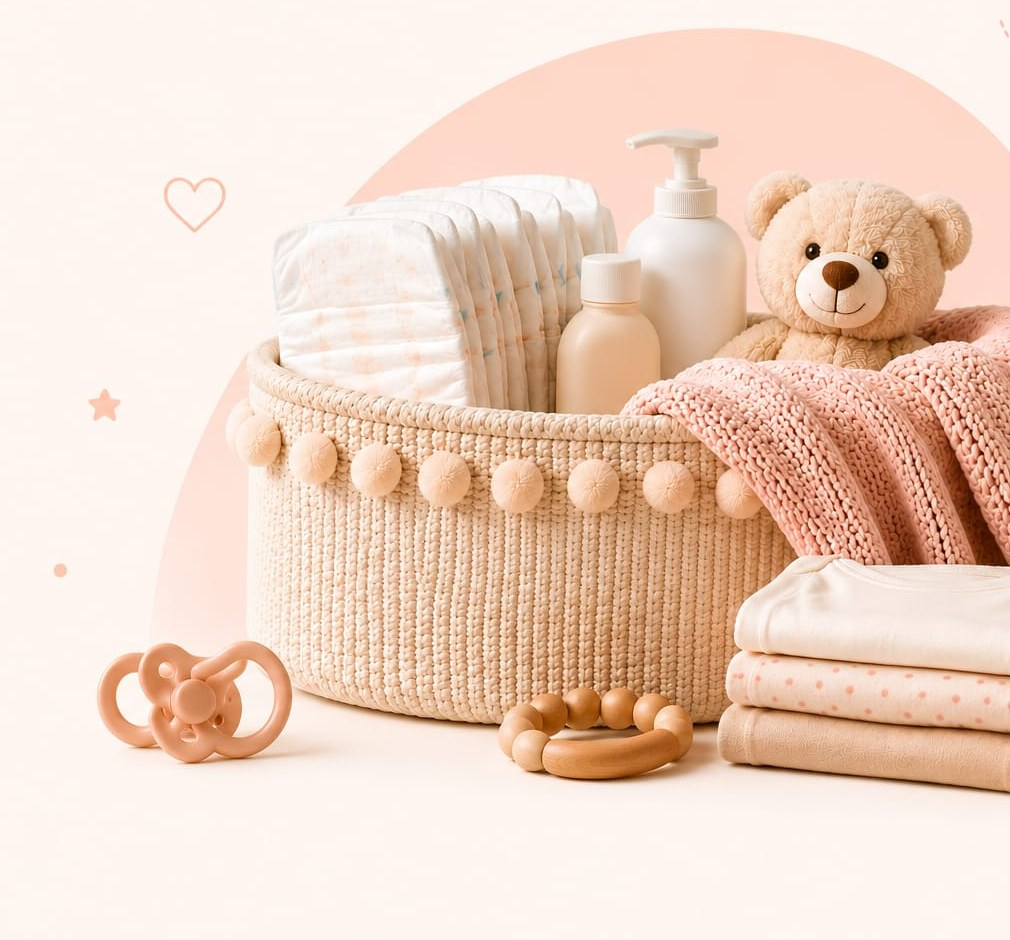
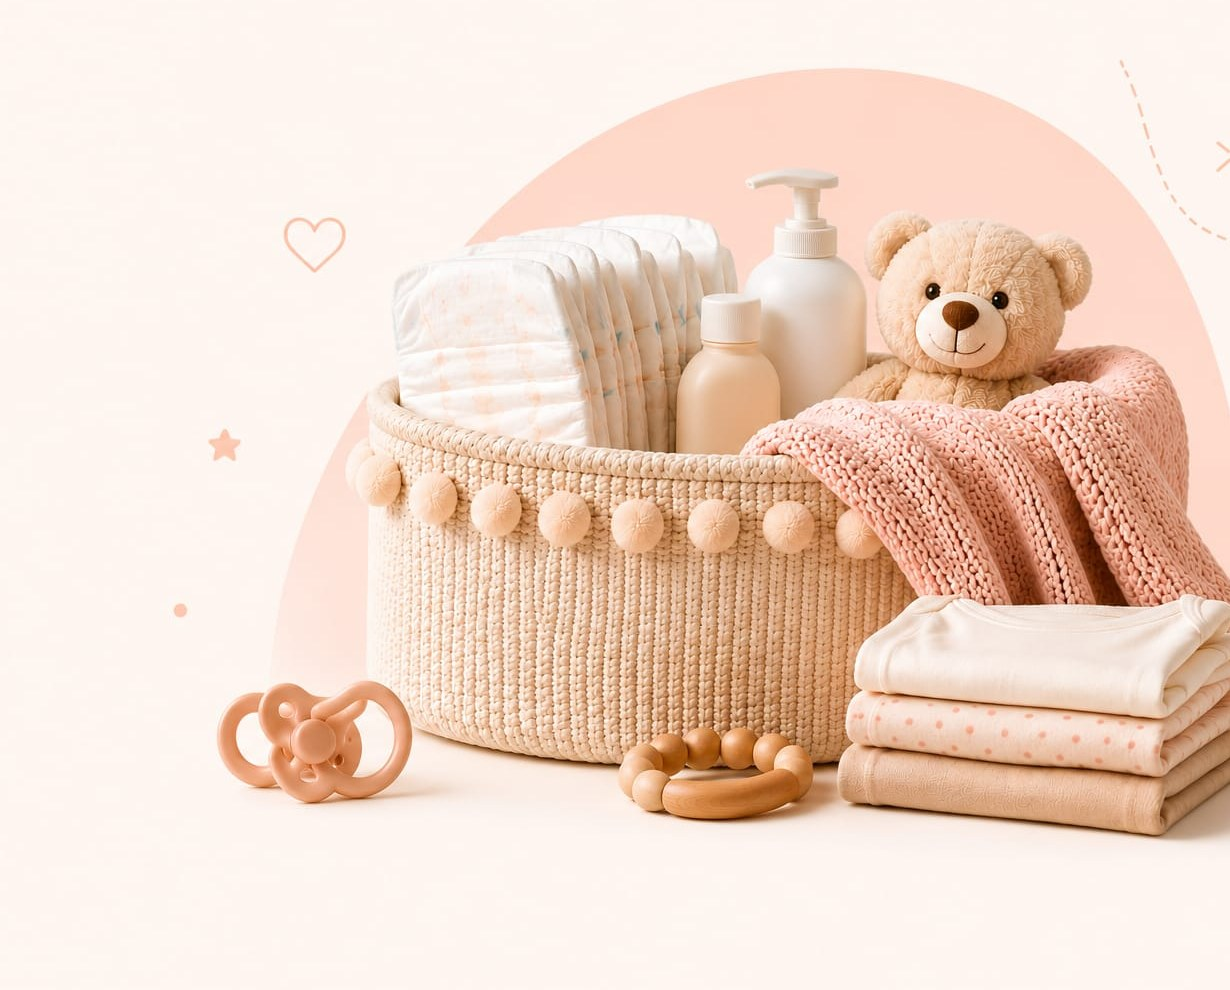
Iconos del cliente, hero más fiel al mockup y ajustes varios
- Iconos del cliente (gris/coral) en barra inferior, anuncios, confianza y sociales
- Botón "Finalizar por WhatsApp" del carrito con icono WhatsApp blanco nuevo
- "Ver productos" más bajo y menos alto dentro del hero
- Hero mobile: imagen más abierta (se ven los productos) + blur detrás del texto

diff --git a/index.html b/index.html
@@ -18,17 +18,17 @@
   <div class="topbar">
     <div class="container topbar__inner">
       <p class="topbar__msg">
-        <svg class="ico" viewBox="0 0 24 24" aria-hidden="true"><path d="M3 7h11v8H3z"/><path d="M14 10h4l3 3v2h-7z"/><circle cx="7" cy="17" r="1.6"/><circle cx="17.5" cy="17" r="1.6"/></svg>
+        <img class="ico" src="assets/icons/truck-coral.png" alt="" />
         Envíos a todo el país a partir de <strong>$15.000</strong>
       </p>
       <span class="topbar__sep" aria-hidden="true"></span>
       <p class="topbar__msg topbar__msg--2">
-        <svg class="ico" viewBox="0 0 24 24" aria-hidden="true"><rect x="3" y="6" width="18" height="12" rx="2"/><path d="M3 10h18"/></svg>
+        <img class="ico" src="assets/icons/card-coral.png" alt="" />
         3 y 6 cuotas sin interés en compras superiores a <strong>$40.000</strong>
       </p>
       <div class="topbar__social">
-        <a href="https://www.instagram.com/lapanaleradelmercado" target="_blank" rel="noopener" aria-label="Instagram"><svg class="ico" viewBox="0 0 24 24"><rect x="3" y="3" width="18" height="18" rx="5"/><circle cx="12" cy="12" r="4"/><circle cx="17.5" cy="6.5" r="1"/></svg></a>
-        <a href="#" id="topbarWa" target="_blank" rel="noopener" aria-label="WhatsApp"><svg class="ico" viewBox="0 0 24 24"><path d="M20 11.5a8 8 0 0 1-11.8 7L4 19.5l1.1-4A8 8 0 1 1 20 11.5z"/><path d="M9 9.5c0 3 2.5 5.5 5.5 5.5.6 0 1.2-.6.8-1.2l-1-1.2-1.5.6-1.6-1.6.6-1.5-1.2-1c-.6-.4-1.2.2-1.2.8z" fill="currentColor" stroke="none"/></svg></a>
+        <a href="https://www.instagram.com/lapanaleradelmercado" target="_blank" rel="noopener" aria-label="Instagram"><img class="social-ico" src="assets/icons/ig-gray.png" alt="Instagram" /></a>
+        <a href="#" id="topbarWa" target="_blank" rel="noopener" aria-label="WhatsApp"><img class="social-ico" src="assets/icons/wa-gray.png" alt="WhatsApp" /></a>
       </div>
     </div>
   </div>
@@ -94,7 +94,7 @@
           <strong id="cartTotal">$0</strong>
         </div>
         <a class="btn btn--primary cart__checkout" id="cartCheckout" target="_blank" rel="noopener">
-          <svg viewBox="0 0 24 24" aria-hidden="true"><path d="M21 11.5a8 8 0 0 1-11.8 7L4 20l1.4-4.5A8 8 0 1 1 21 11.5z"/></svg>
+          <img class="cart__waico" src="assets/icons/wa-white.png" alt="" />
           Finalizar pedido por WhatsApp
         </a>
         <button class="cart__clear" id="cartClear">Vaciar carrito</button>
@@ -131,9 +131,9 @@
 
           <!-- confianza (visible en desktop dentro del hero) -->
           <ul class="hero__trust">
-            <li><span class="hero__trust-ico"><svg viewBox="0 0 24 24"><path d="M12 3l7 3v5c0 4-3 7-7 8-4-1-7-4-7-8V6z"/><path d="m9 12 2 2 4-4"/></svg></span> Productos confiables</li>
-            <li><span class="hero__trust-ico"><svg viewBox="0 0 24 24"><path d="M3 7h11v8H3z"/><path d="M14 10h4l3 3v2h-7z"/><circle cx="7" cy="17" r="1.6"/><circle cx="17.5" cy="17" r="1.6"/></svg></span> Envíos a todo el país</li>
-            <li><span class="hero__trust-ico"><svg viewBox="0 0 24 24"><path d="M12 21s-7-4.5-9-9a4.5 4.5 0 0 1 8-3 4.5 4.5 0 0 1 8 3c-1 4-7 9-7 9z"/></svg></span> Atención personalizada</li>
+            <li><span class="hero__trust-ico"><img src="assets/icons/escudo-coral.png" alt="" /></span> Productos confiables</li>
+            <li><span class="hero__trust-ico"><img src="assets/icons/truck-coral.png" alt="" /></span> Envíos a todo el país</li>
+            <li><span class="hero__trust-ico"><img src="assets/icons/soporte-coral.png" alt="" /></span> Atención personalizada</li>
           </ul>
         </div>
 
@@ -193,24 +193,24 @@
 
   <!-- ===================== BOTTOM NAV (mobile) ===================== -->
   <nav class="bottomnav" aria-label="Navegación principal">
-    <a href="#" class="bottomnav__item is-active">
-      <svg viewBox="0 0 24 24"><path d="M4 11l8-7 8 7"/><path d="M6 10v9h12v-9"/></svg>
+    <a href="index.html" class="bottomnav__item is-active">
+      <img class="bn-ico" src="assets/icons/home-coral.png" alt="" />
       <span>Inicio</span>
     </a>
     <a href="#categorias" class="bottomnav__item">
-      <svg viewBox="0 0 24 24"><rect x="4" y="4" width="6" height="6" rx="1.5"/><rect x="14" y="4" width="6" height="6" rx="1.5"/><rect x="4" y="14" width="6" height="6" rx="1.5"/><rect x="14" y="14" width="6" height="6" rx="1.5"/></svg>
+      <img class="bn-ico" src="assets/icons/cats-gray.png" alt="" />
       <span>Categorías</span>
     </a>
     <a href="#" class="bottomnav__item" id="navWa" target="_blank" rel="noopener">
-      <svg viewBox="0 0 24 24"><path d="M20 11.5a8 8 0 0 1-11.8 7L4 19.5l1.1-4A8 8 0 1 1 20 11.5z"/><path d="M9 9.5c0 3 2.5 5.5 5.5 5.5.6 0 1.2-.6.8-1.2l-1-1.2-1.5.6-1.6-1.6.6-1.5-1.2-1c-.6-.4-1.2.2-1.2.8z" fill="currentColor" stroke="none"/></svg>
+      <img class="bn-ico" src="assets/icons/wa-gray.png" alt="" />
       <span>WhatsApp</span>
     </a>
     <a href="https://www.instagram.com/lapanaleradelmercado" class="bottomnav__item" id="navIg" target="_blank" rel="noopener">
-      <svg viewBox="0 0 24 24"><rect x="3" y="3" width="18" height="18" rx="5"/><circle cx="12" cy="12" r="4"/><circle cx="17.5" cy="6.5" r="1"/></svg>
+      <img class="bn-ico" src="assets/icons/ig-gray.png" alt="" />
       <span>Instagram</span>
     </a>
     <a href="#" class="bottomnav__item" id="cartBtnNav">
-      <svg viewBox="0 0 24 24"><path d="M6 6h15l-1.5 9h-12z"/><path d="M6 6 5 3H2"/><circle cx="9" cy="20" r="1.6"/><circle cx="18" cy="20" r="1.6"/></svg>
+      <img class="bn-ico" src="assets/icons/cart-gray.png" alt="" />
       <span>Carrito</span>
       <span class="badge badge--nav" id="cartCountNav" hidden>0</span>
     </a>

diff --git a/productos.html b/productos.html
@@ -18,17 +18,17 @@
   <div class="topbar">
     <div class="container topbar__inner">
       <p class="topbar__msg">
-        <svg class="ico" viewBox="0 0 24 24" aria-hidden="true"><path d="M3 7h11v8H3z"/><path d="M14 10h4l3 3v2h-7z"/><circle cx="7" cy="17" r="1.6"/><circle cx="17.5" cy="17" r="1.6"/></svg>
+        <img class="ico" src="assets/icons/truck-coral.png" alt="" />
         Envíos a todo el país a partir de <strong>$15.000</strong>
       </p>
       <span class="topbar__sep" aria-hidden="true"></span>
       <p class="topbar__msg topbar__msg--2">
-        <svg class="ico" viewBox="0 0 24 24" aria-hidden="true"><rect x="3" y="6" width="18" height="12" rx="2"/><path d="M3 10h18"/></svg>
+        <img class="ico" src="assets/icons/card-coral.png" alt="" />
         3 y 6 cuotas sin interés en compras superiores a <strong>$40.000</strong>
       </p>
       <div class="topbar__social">
-        <a href="https://www.instagram.com/lapanaleradelmercado" target="_blank" rel="noopener" aria-label="Instagram"><svg class="ico" viewBox="0 0 24 24"><rect x="3" y="3" width="18" height="18" rx="5"/><circle cx="12" cy="12" r="4"/><circle cx="17.5" cy="6.5" r="1"/></svg></a>
-        <a href="#" id="topbarWa" target="_blank" rel="noopener" aria-label="WhatsApp"><svg class="ico" viewBox="0 0 24 24"><path d="M20 11.5a8 8 0 0 1-11.8 7L4 19.5l1.1-4A8 8 0 1 1 20 11.5z"/><path d="M9 9.5c0 3 2.5 5.5 5.5 5.5.6 0 1.2-.6.8-1.2l-1-1.2-1.5.6-1.6-1.6.6-1.5-1.2-1c-.6-.4-1.2.2-1.2.8z" fill="currentColor" stroke="none"/></svg></a>
+        <a href="https://www.instagram.com/lapanaleradelmercado" target="_blank" rel="noopener" aria-label="Instagram"><img class="social-ico" src="assets/icons/ig-gray.png" alt="Instagram" /></a>
+        <a href="#" id="topbarWa" target="_blank" rel="noopener" aria-label="WhatsApp"><img class="social-ico" src="assets/icons/wa-gray.png" alt="WhatsApp" /></a>
       </div>
     </div>
   </div>
@@ -94,7 +94,7 @@
           <strong id="cartTotal">$0</strong>
         </div>
         <a class="btn btn--primary cart__checkout" id="cartCheckout" target="_blank" rel="noopener">
-          <svg viewBox="0 0 24 24" aria-hidden="true"><path d="M21 11.5a8 8 0 0 1-11.8 7L4 20l1.4-4.5A8 8 0 1 1 21 11.5z"/></svg>
+          <img class="cart__waico" src="assets/icons/wa-white.png" alt="" />
           Finalizar pedido por WhatsApp
         </a>
         <button class="cart__clear" id="cartClear">Vaciar carrito</button>
@@ -156,23 +156,23 @@
   <!-- ===================== BOTTOM NAV (mobile) ===================== -->
   <nav class="bottomnav" aria-label="Navegación principal">
     <a href="index.html" class="bottomnav__item">
-      <svg viewBox="0 0 24 24"><path d="M4 11l8-7 8 7"/><path d="M6 10v9h12v-9"/></svg>
+      <img class="bn-ico" src="assets/icons/home-gray.png" alt="" />
       <span>Inicio</span>
     </a>
     <a href="index.html#categorias" class="bottomnav__item">
-      <svg viewBox="0 0 24 24"><rect x="4" y="4" width="6" height="6" rx="1.5"/><rect x="14" y="4" width="6" height="6" rx="1.5"/><rect x="4" y="14" width="6" height="6" rx="1.5"/><rect x="14" y="14" width="6" height="6" rx="1.5"/></svg>
+      <img class="bn-ico" src="assets/icons/cats-gray.png" alt="" />
       <span>Categorías</span>
     </a>
     <a href="#" class="bottomnav__item" id="navWa" target="_blank" rel="noopener">
-      <svg viewBox="0 0 24 24"><path d="M20 11.5a8 8 0 0 1-11.8 7L4 19.5l1.1-4A8 8 0 1 1 20 11.5z"/><path d="M9 9.5c0 3 2.5 5.5 5.5 5.5.6 0 1.2-.6.8-1.2l-1-1.2-1.5.6-1.6-1.6.6-1.5-1.2-1c-.6-.4-1.2.2-1.2.8z" fill="currentColor" stroke="none"/></svg>
+      <img class="bn-ico" src="assets/icons/wa-gray.png" alt="" />
       <span>WhatsApp</span>
     </a>
     <a href="https://www.instagram.com/lapanaleradelmercado" class="bottomnav__item" id="navIg" target="_blank" rel="noopener">
-      <svg viewBox="0 0 24 24"><rect x="3" y="3" width="18" height="18" rx="5"/><circle cx="12" cy="12" r="4"/><circle cx="17.5" cy="6.5" r="1"/></svg>
+      <img class="bn-ico" src="assets/icons/ig-gray.png" alt="" />
       <span>Instagram</span>
     </a>
     <a href="#" class="bottomnav__item" id="cartBtnNav">
-      <svg viewBox="0 0 24 24"><path d="M6 6h15l-1.5 9h-12z"/><path d="M6 6 5 3H2"/><circle cx="9" cy="20" r="1.6"/><circle cx="18" cy="20" r="1.6"/></svg>
+      <img class="bn-ico" src="assets/icons/cart-gray.png" alt="" />
       <span>Carrito</span>
       <span class="badge badge--nav" id="cartCountNav" hidden>0</span>
     </a>

diff --git a/css/styles.css b/css/styles.css
@@ -102,6 +102,13 @@ svg path, svg circle, svg rect, svg ellipse, svg line {
 .topbar__social a:hover { transform: translateY(-1px); }
 .social-ico { width: 26px; height: 26px; object-fit: contain; }
 
+/* tamaños de los iconos-imagen (barra inferior, anuncios, confianza, carrito) */
+img.ico { object-fit: contain; }
+.bn-ico { width: 24px; height: 24px; object-fit: contain; }
+.cart__waico { width: 22px; height: 22px; object-fit: contain; }
+.trust__ico img { width: 26px; height: 26px; object-fit: contain; }
+.hero__trust-ico img { width: 19px; height: 19px; object-fit: contain; }
+
 /* =========================================================
    HEADER
    ========================================================= */
@@ -289,11 +296,14 @@ svg path, svg circle, svg rect, svg ellipse, svg line {
   padding: 22px 20px;
   position: relative;
   overflow: hidden;
-  min-height: 320px;
+  min-height: 330px;
   display: flex;
-  align-items: center;
+  align-items: stretch;
 }
-.hero__content { position: relative; z-index: 2; max-width: 57%; }
+.hero__content {
+  position: relative; z-index: 2; max-width: 57%;
+  display: flex; flex-direction: column; align-items: flex-start;
+}
 .pill {
   display: inline-block; background: var(--peach-200); color: var(--accent-dark);
   font-size: 10px; font-weight: 700; letter-spacing: .05em; text-transform: uppercase;
@@ -304,8 +314,8 @@ svg path, svg circle, svg rect, svg ellipse, svg line {
   letter-spacing: -.02em; margin-bottom: 10px;
 }
 .hero__title-accent { color: var(--accent); }
-.hero__text { color: var(--ink-soft); font-size: 13px; max-width: 26ch; margin-bottom: 16px; }
-.hero__cta { padding: 11px 20px; font-size: 13.5px; }
+.hero__text { color: var(--ink-soft); font-size: 13px; max-width: 26ch; margin-bottom: 14px; }
+.hero__cta { padding: 8px 18px; font-size: 13px; margin-top: auto; }
 .hero__trust { display: none; }
 
 .btn {
@@ -323,14 +333,18 @@ svg path, svg circle, svg rect, svg ellipse, svg line {
 .hero__pic { display: contents; }
 .hero__photo {
   position: absolute; inset: 0; width: 100%; height: 100%;
-  object-fit: cover; object-position: 66% center; z-index: 0;
+  object-fit: cover; object-position: 60% center; z-index: 0;
 }
-/* degradé crema a la izquierda para que el texto se lea sobre la foto */
+/* degradé + desenfoque a la izquierda para que el texto se lea bien sobre la foto */
 .hero__scrim {
   position: absolute; inset: 0; z-index: 1; pointer-events: none;
   background: linear-gradient(100deg,
-    var(--cream) 0%, rgba(255,246,240,.92) 28%,
-    rgba(255,246,240,.5) 50%, rgba(255,246,240,0) 74%);
+    rgba(255,246,240,.86) 0%, rgba(255,246,240,.72) 34%,
+    rgba(255,246,240,.28) 54%, rgba(255,246,240,0) 74%);
+  backdrop-filter: blur(7px);
+  -webkit-backdrop-filter: blur(7px);
+  -webkit-mask: linear-gradient(100deg, #000 0%, #000 46%, transparent 72%);
+  mask: linear-gradient(100deg, #000 0%, #000 46%, transparent 72%);
 }
 
 /* =========================================================

diff --git a/js/main.js b/js/main.js
@@ -248,10 +248,10 @@ function setupProductsPage(activeCat) {
    RENDER: franja de confianza
    ========================================================= */
 const TRUST = [
-  { ico: '<svg viewBox="0 0 24 24"><path d="M12 3l7 3v5c0 4-3 7-7 8-4-1-7-4-7-8V6z"/><path d="m9 12 2 2 4-4"/></svg>', txt: "Productos confiables" },
-  { ico: '<svg viewBox="0 0 24 24"><path d="M3 7h11v8H3z"/><path d="M14 10h4l3 3v2h-7z"/><circle cx="7" cy="17" r="1.6"/><circle cx="17.5" cy="17" r="1.6"/></svg>', txt: "Envíos a todo el país" },
-  { ico: '<svg viewBox="0 0 24 24"><path d="M5 18v-6a7 7 0 0 1 14 0v6"/><rect x="3" y="15" width="4" height="6" rx="1.5"/><rect x="17" y="15" width="4" height="6" rx="1.5"/></svg>', txt: "Atención personalizada" },
-  { ico: '<svg viewBox="0 0 24 24"><rect x="5" y="11" width="14" height="9" rx="2"/><path d="M8 11V8a4 4 0 0 1 8 0v3"/></svg>', txt: "Compra 100% segura" },
+  { ico: '<img src="assets/icons/escudo-coral.png" alt="" />', txt: "Productos confiables" },
+  { ico: '<img src="assets/icons/truck-coral.png" alt="" />', txt: "Envíos a todo el país" },
+  { ico: '<img src="assets/icons/soporte-coral.png" alt="" />', txt: "Atención personalizada" },
+  { ico: '<img src="assets/icons/card-coral.png" alt="" />', txt: "Compra 100% segura" },
 ];
 function renderTrust() {
   const row = $("#trustRow");

diff --git a/docs/PROGRESO.md b/docs/PROGRESO.md
@@ -62,6 +62,16 @@ muestra (pide login). Si una foto falla, la card muestra un ícono placeholder.
 - [x] Fotos de productos desde la hoja **info** (link de Drive → imagen). Falta hacer
       públicos los archivos en Drive para que se vean.
 
+## Ajustes 2026-06-28 (noche)
+- [x] Fotos de productos **funcionando** (cliente hizo públicos los archivos de Drive).
+- [x] **Iconos del cliente** (iconos 1 y 2, gris/coral) en `assets/icons/`: barra inferior
+      (home/cats/wa/ig/cart), barra de anuncios (truck/card), franja de confianza
+      (escudo/truck/soporte/card) y sociales del header. Botón "Finalizar por WhatsApp"
+      del carrito usa `wa-white.png`.
+- [x] Botón "Ver productos" más bajo y menos alto (pegado abajo del hero).
+- [x] Imagen del hero mobile más abierta (se ven los productos en la canasta) + **blur**
+      detrás del texto (backdrop-filter en `.hero__scrim`) para que se lea bien.
+
 ## Ajustes 2026-06-28 (tarde)
 - [x] Saqué el **corazón** de las cards y el **cartel "agregado"** al sumar al carrito.
 - [x] **Lightbox**: tocás la foto de un producto y se ve grande; tocás de nuevo (o Esc) y cierra.
